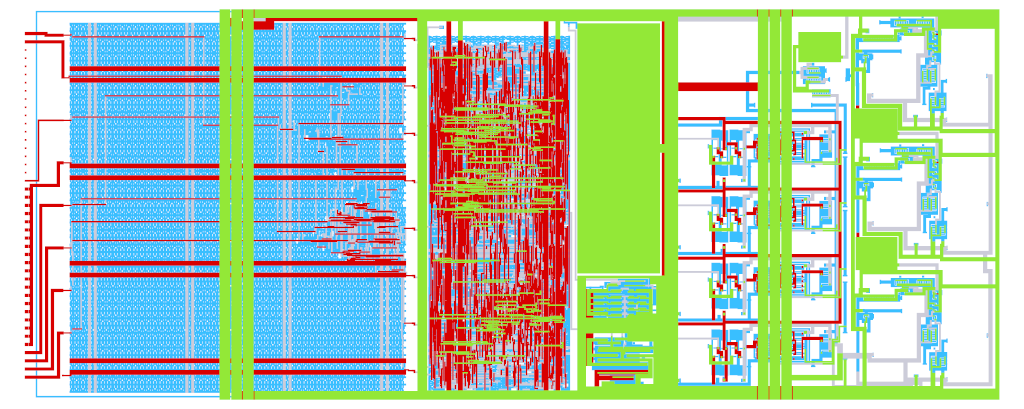
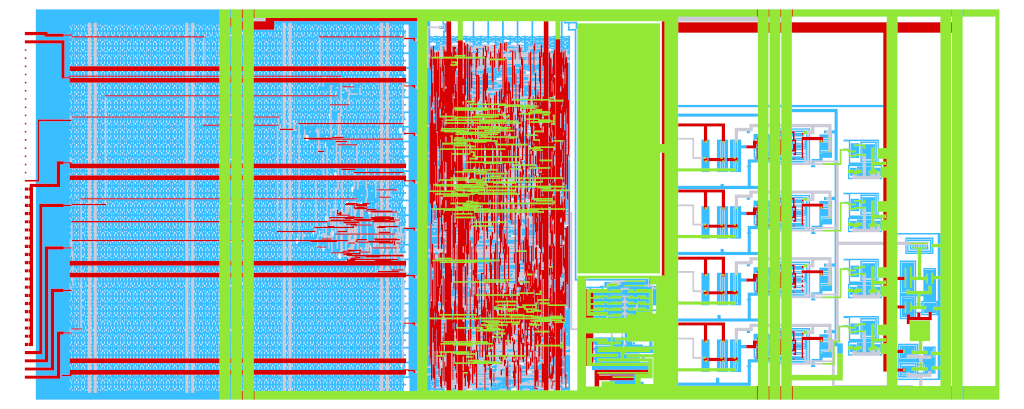
chore: update heichips26-on-off

diff --git a/README.md b/README.md
@@ -42,7 +42,7 @@ The following user projects are included:
 | Minimal Multicore Processor | tiny | X5Y1/1 | A custom 3-instruction dual-core 8-Bit CPU with a memory management unit supporting atomic swap operations. | [Repo](https://github.com/HeiChips/heichips26-minimal-processor) |
 | Noiser | small | X0Y5 | ring-oscillator designs for generating power side-channel noise | [Repo](https://github.com/HeiChips/heichips26_noise_gen) |
 | DNA Sequence Aligner | small | X5Y3 | This is a DNA sequence alignment accelerator based on Smith-Waterman algorithm. | [Repo](https://github.com/HeiChips/heichips26-DNA_sequencer) |
-| An On-Off keying Transmitter/Receiver | small | X0Y3 | ON OFF keying Transmitter+Receiver. It works by turning a carrier signal ON and OFF to transmit data.I built this because I wanted an RFIC for my first SoC design, and OOK is the simplest.How it works (bit bang mode. from the FPGA side, toggle the transmission pin with your favorite data encoding scheme, and hopefully, you receive something on the other end. I recommend start+stop bits with Manchester encoding, and a symbol duration no shorter than 6us)ui_in[0] is connected to the transmitter tx pin.uo_out[7] to [4] is connected to q3 to q0 of the receiver comparators. | [Repo](https://github.com/HeiChips/heichips26-on-off) |
+| An On-Off keying Transmitter/Receiver | small | X0Y3 | ON OFF keying Transmitter+Receiver. Very cool. | [Repo](https://github.com/HeiChips/heichips26-on-off) |
 | Voltage Controlled Resistor | small | X0Y4 | A fully analog component with ohmic behaviour whose resistance value can be changed in accordance with an external analog control voltage. | [Repo](https://github.com/HeiChips/heichips26-voltage-controlled-resistor) |
 | daftASIC | small | X5Y8 | An extensively, named daftASIC, designed and expandable music synthesizer built purely in silicon, supporting both visual and audio outputs | [Repo](https://github.com/HeiChips/heichips26-daftasic) |
 | Ballmer-Peak-Detector | small | X5Y2 | Edge State Space Model Processing Element using Posit Arithmetic | [Repo](https://github.com/HeiChips/heichips26-ballmer-peak-detector) |
@@ -524,15 +524,7 @@ engine based on the Smith-Waterman dynamic programming algorithm.
 
 ### An On-Off keying Transmitter/Receiver
 
-ON OFF keying Transmitter+Receiver. It works by turning a carrier signal ON and OFF to transmit data.
-
-I built this because I wanted an RFIC for my first SoC design, and OOK is the simplest.
-
-How it works (bit bang mode. from the FPGA side, toggle the transmission pin with your favorite data encoding scheme
-, and hopefully, you receive something on the other end. I recommend start+stop bits with Manchester encoding, and a symbol duration no shorter than 6us)
-
-ui_in[0] is connected to the transmitter tx pin.
-uo_out[7] to [4] is connected to q3 to q0 of the receiver comparators.
+ON OFF keying Transmitter+Receiver. Very cool.
 
 
 <p align="center">
